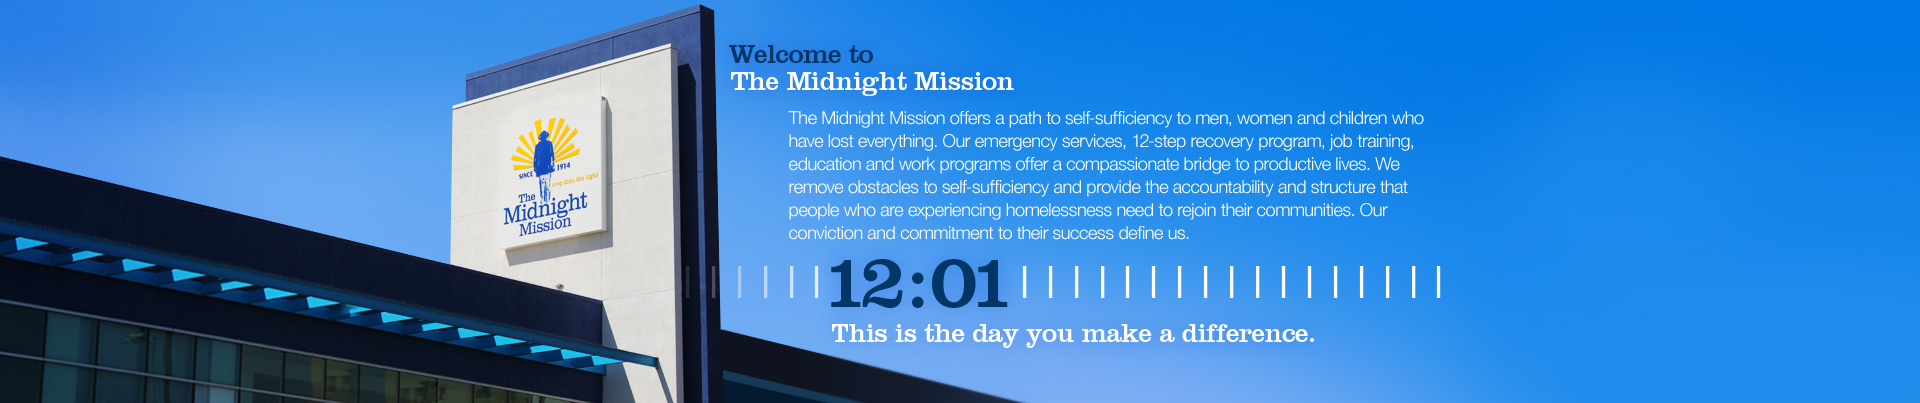
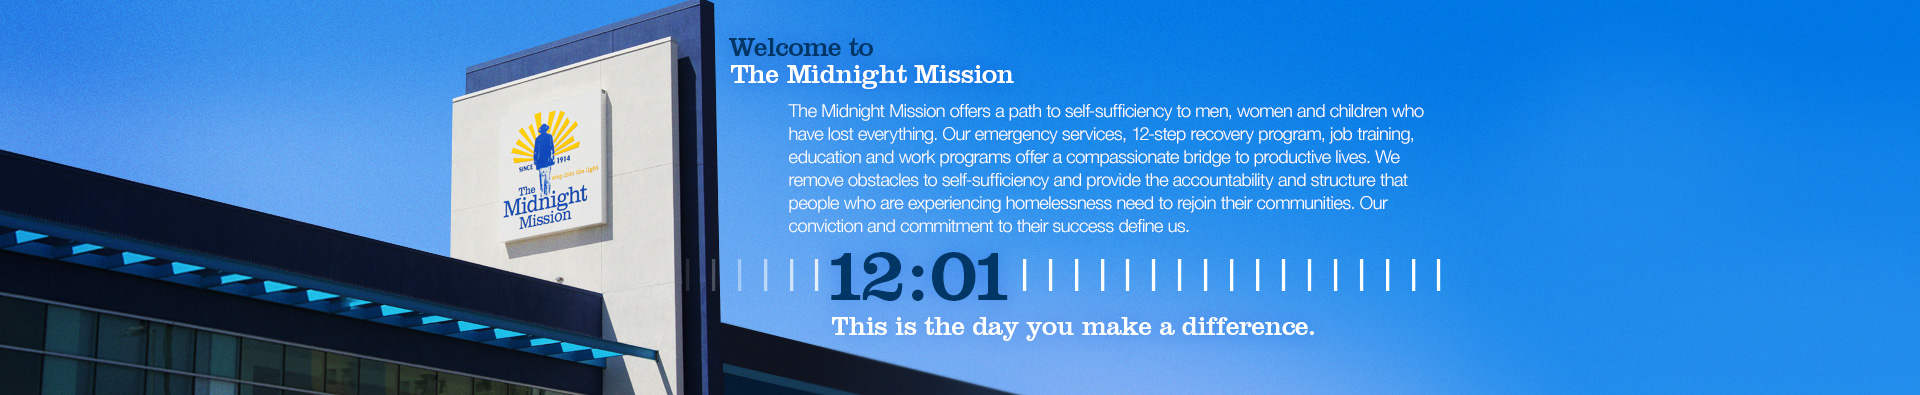
udpate

diff --git a/wp-content/themes/tmm/css/responsive.css b/wp-content/themes/tmm/css/responsive.css
@@ -128,6 +128,7 @@ header {
 	background: -o-linear-gradient( #2f2f2f, #000000 );
 	background: -ms-linear-gradient( #2f2f2f, #000000 );
 	background: linear-gradient( #2f2f2f, #000000 );
+	filter: progid:DXImageTransform.Microsoft.gradient( startColorstr='#2f2f2f', endColorstr='#000000',GradientType=0 );
 	min-height: 100px;
 }
 
@@ -297,9 +298,9 @@ ul.header-buttons .stories:hover, ul.header-buttons .stories.down {
 }
 
 .home-slider {
-	background: url("../images/home/background-slider.jpg") repeat scroll 0 0 rgba(0, 0, 0, 0) !important;
+	background: url("../images/home/background-slider.jpg") repeat scroll center center rgba(0, 0, 0, 0) !important;
 	background-size: 100% auto;
-	max-height: 403px;
+	max-height: 395px;
 }
 
 .home-container {
@@ -381,7 +382,9 @@ article > div {
     height: 160px;
 }
 article > div.double {
-    background: none repeat scroll 0 0 rgba(0, 0, 0, 0);
+    background: none repeat scroll 0 0 rgba(0, 0, 0, 0);    
+    border-radius: 0;
+    box-shadow: none;
     margin-right: 2%;
     width: 49%;
 }
@@ -392,7 +395,7 @@ article > div.double-after {
 article > div:nth-child(4n+4) {
     margin-right: 0;
 }
-article > div:hover {
+article > div:not(.double):hover {
     background-color: #B4D0FA;
 }
 
@@ -551,70 +554,95 @@ footer {
 	}
 }
 
-#tabs {
+.tabs {
 	background: none repeat scroll 0 0 rgba(0, 0, 0, 0);
     border: medium none;
     margin: 0;
     padding: 0;
 }
 
-.ui-widget-header {
-    background: none repeat scroll 0 0 rgba(0, 0, 0, 0);
-    border: medium none;
-}
-.ui-tabs .ui-tabs-nav {
-	padding: 0;
-}
-.ui-tabs .ui-tabs-nav li {
-	margin: 0;	
+.tabs ul {
+	display: list-item;
+    margin: 0;
+    padding: 0;
+    text-align: left;
 }
 
-.ui-tabs .ui-tabs-nav .ui-tabs-anchor {
-	border: medium none;
-	padding: 0;
+.tabs ul.title {
+	height: 20%;
+    position: absolute;
+    z-index: 2;
 }
 
+.tabs ul.title li {
+	background-color: #FFFFFF;
+    border: 1px solid #DDDDDD;
+    border-top-left-radius: 7px;
+    border-top-right-radius: 7px;
+    display: inline-block;
+    margin-right: -5px;
+}
 
+.tabs ul.title li.active {
+	border-bottom: none;
+}
 
-li.ui-state-default .tab-tweets {
+li .tab-tweets {
 	background: url("../images/home/feeds.png") no-repeat scroll 0 0 rgba(0, 0, 0, 0);
 	cursor: pointer;
     display: block;
     height: 14px;
-    margin: 6px;
+    margin: 9px;
     width: 68px;
 }
-li.ui-state-default .tab-tweets:hover, li.ui-tabs-active .tab-tweets {
+li.active .tab-tweets, .tab-tweets:hover {
 	background-position: 0 -14px;
 }
 
 
-li.ui-state-default .tab-facebook {
+li .tab-facebook {
 	background: url("../images/home/feeds.png") no-repeat scroll -68px 0 rgba(0, 0, 0, 0);
     cursor: pointer;
     display: block;
     height: 14px;
-    margin: 6px;
+    margin: 9px;
     width: 80px;
 }
-li.ui-state-default .tab-facebook:hover, li.ui-tabs-active .tab-facebook {
+li.active .tab-facebook, .tab-facebook:hover {
 	background-position: -68px -14px;
 }
 
 
-li.ui-state-default .tab-tumblr {
+li .tab-tumblr {
 	background: url("../images/home/feeds.png") no-repeat scroll -148px 0 rgba(0, 0, 0, 0);
    	cursor: pointer;
     display: block;
     height: 14px;
-    margin: 6px;
+    margin: 9px;
     width: 58px;
 }
-li.ui-state-default .tab-tumblr:hover, li.ui-tabs-active .tab-tumblr {
+li.active .tab-tumblr, .tab-tumblr:hover {
 	background-position: -148px -14px;
 }
 
 
-.ui-tabs .ui-tabs-panel {
-	background: #FFFFFF;
+.tabs ul.content {
+	background: none repeat scroll 0 0 #FFFFFF;
+    border: 1px solid #DDDDDD;
+    border-bottom-left-radius: 7px;
+    border-bottom-right-radius: 7px;
+    bottom: 0;
+    color: #003666;
+    height: 78%;
+    left: 0;
+    position: absolute;
+    right: 0;
+}
+
+.tabs ul.content li {
+	display: block;
+    height: 76%;
+    margin: 2% 3%;
+    overflow: auto;
+    width: 94%;
 }

diff --git a/wp-content/themes/tmm/js/main.js b/wp-content/themes/tmm/js/main.js
@@ -10,10 +10,6 @@ function onYouTubeIframeAPIReady() {
 	});
 }
 
-$(function() {
-	$( "#tabs" ).tabs();
-});
-
 $(window).load(function() {
 	$('.flexslider').flexslider({
 		animation : "fade"
@@ -30,5 +26,34 @@ $(document).ready(function(e) {
 			"display" : "none"
 		});
 	});
-
+	
+	$(".tab-tweets").click(function(event) {
+		$("ul.title li").removeClass("active");
+		$(".tab-tweets").parent().addClass("active");
+		
+		$("ul.content li:not(#tabs-1)").stop(true,false).animate({"opacity":"0"},function(){
+			$("ul.content li:not(#tabs-1)").css({"display": "none"});
+			$("#tabs-1").css({"opacity":"0", "display":"block"}).stop(true,false).animate({opacity:1});
+		});
+	});
+	$(".tab-facebook").click(function(event) {
+		$("ul.title li").removeClass("active");
+		$(".tab-facebook").parent().addClass("active");
+		
+		$("ul.content li:not(#tabs-2)").stop(true,false).animate({"opacity":"0"},function(){
+			$("ul.content li:not(#tabs-2)").css({"display": "none"});
+			$("#tabs-2").css({"opacity":"0", "display":"block"}).stop(true,false).animate({opacity:1});
+		});
+		
+	});
+	$(".tab-tumblr").click(function(event) {
+		$("ul.title li").removeClass("active");
+		$(".tab-tumblr").parent().addClass("active");
+		
+		$("ul.content li:not(#tabs-3)").stop(true,false).animate({"opacity":"0"},function(){
+			$("ul.content li:not(#tabs-3)").css({"display": "none"});
+			$("#tabs-3").css({"opacity":"0", "display":"block"}).stop(true,false).animate({opacity:1});
+		});
+		
+	});
 });

diff --git a/wp-content/themes/tmm/css/flexslider.css b/wp-content/themes/tmm/css/flexslider.css
@@ -56,9 +56,10 @@ html[xmlns] .slides {display: block;}
 .flexslider {
 	background: none repeat scroll 0 0 #000000;
     margin: 0;
-    max-height: 403px;
+    max-height: 395px;
+    overflow: hidden;
     padding: 0;
-    position: relative;
+    position: relative;    
 }
 .flex-viewport { max-height: 2000px; -webkit-transition: all 1s ease; -moz-transition: all 1s ease; -o-transition: all 1s ease; transition: all 1s ease; }
 .loading .flex-viewport { max-height: 300px; }
@@ -74,8 +75,8 @@ html[xmlns] .slides {display: block;}
 .flexslider:hover .flex-next { opacity: 0.7; right: 10px; }
 .flexslider:hover .flex-next:hover, .flexslider:hover .flex-prev:hover { opacity: 1; }
 .flex-direction-nav .flex-disabled { opacity: 0!important; filter:alpha(opacity=0); cursor: default; }
-.flex-direction-nav a:before  { font-family: "flexslider-icon"; font-size: 40px; display: inline-block; content: '\f001'; }
-.flex-direction-nav a.flex-next:before  { content: '\f002'; }
+.flex-direction-nav a:before  { font-family: "flexslider-icon"; font-size: 40px; display: inline-block; content: '\f001'; color: #0096D6;}
+.flex-direction-nav a.flex-next:before  { content: '\f002'; color: #0096D6;}
 
 /* Pause/Play */
 .flex-pauseplay a { display: block; width: 20px; height: 20px; position: absolute; bottom: 5px; left: 10px; opacity: 0.8; z-index: 10; overflow: hidden; cursor: pointer; color: #000; }

diff --git a/wp-content/themes/tmm/home.php b/wp-content/themes/tmm/home.php
@@ -12,7 +12,6 @@
  -->
 <!-- <link rel="stylesheet" type="text/css"
 	href="<?= CSS ?>/magnific-popup.css" /> -->
-<link rel="stylesheet" href="//code.jquery.com/ui/1.10.4/themes/smoothness/jquery-ui.css">
 <link rel="stylesheet" type="text/css" href="<?= CSS ?>/flexslider.css"/>
 <link rel="stylesheet" type="text/css" href="<?= CSS ?>/responsive.css" />
 
@@ -26,14 +25,34 @@
 <!--<script type="text/javascript"
 	src="<?= JS ?>/jquery.magnific-popup.min.js"></script>-->	
 <script type="text/javascript" src="<?= JS ?>/jquery.flexslider-min.js"></script>
-<script type="text/javascript" src="https://www.youtube.com/iframe_api"></script>
 <script type="text/javascript" src="<?= JS ?>/main.js"></script>
+<script type="text/javascript" src="https://www.youtube.com/iframe_api"></script>
 
 <!--[if lt IE 9]> <script src="http://html5shim.googlecode.com/svn/trunk/html5.js"></script> <![endif]-->
 
 </head>
 
 <body>
+<!-- 
+	<div id="fb-root"></div>
+	<script>
+      window.fbAsyncInit = function() {
+        FB.init({
+          appId      : '1401841393413738',
+          status     : true,
+          xfbml      : true
+        });
+      };
+
+      (function(d, s, id){
+         var js, fjs = d.getElementsByTagName(s)[0];
+         if (d.getElementById(id)) {return;}
+         js = d.createElement(s); js.id = id;
+         js.src = "//connect.facebook.net/en_US/all.js";
+         fjs.parentNode.insertBefore(js, fjs);
+       }(document, 'script', 'facebook-jssdk'));
+    </script>
+	 -->
 	<div class="wrap">
 		<header>
 			<div class="header-top">
@@ -134,22 +153,23 @@
 			<div class="container">
 				<article>
 					<div class="double shadow">
-						<div id="tabs" style="display: block; width: 100%; height: 100%;">
-							<ul>
-								<li><a class="tab-tweets" href="#tabs-1"></a></li>
-								<li><a class="tab-facebook" href="#tabs-2"></a></li>
-								<li><a class="tab-tumblr" href="#tabs-3"></a></li>
+						<div class="tabs" style="display: block; width: 100%; height: 100%;">
+							<ul class="title">
+								<li class="active"><a class="tab-tweets" ></a></li>
+								<li><a class="tab-facebook"></a></li>
+								<li><a class="tab-tumblr"></a></li>
 							</ul>
-							<div id="tabs-1">
-								<p>Proin elit arcu, rutrum commodo, vehicula tempus, commodo a, risus. Curabitur nec arcu. Donec sollicitudin mi sit amet mauris. Nam elementum quam ullamcorper ante. Etiam aliquet massa et lorem. Mauris dapibus lacus auctor risus. Aenean tempor ullamcorper leo. Vivamus sed magna quis ligula eleifend adipiscing. Duis orci. Aliquam sodales tortor vitae ipsum. Aliquam nulla. Duis aliquam molestie erat. Ut et mauris vel pede varius sollicitudin. Sed ut dolor nec orci tincidunt interdum. Phasellus ipsum. Nunc tristique tempus lectus.</p>
-							</div>
-							<div id="tabs-2">
-								<p>Morbi tincidunt, dui sit amet facilisis feugiat, odio metus gravida ante, ut pharetra massa metus id nunc. Duis scelerisque molestie turpis. Sed fringilla, massa eget luctus malesuada, metus eros molestie lectus, ut tempus eros massa ut dolor. Aenean aliquet fringilla sem. Suspendisse sed ligula in ligula suscipit aliquam. Praesent in eros vestibulum mi adipiscing adipiscing. Morbi facilisis. Curabitur ornare consequat nunc. Aenean vel metus. Ut posuere viverra nulla. Aliquam erat volutpat. Pellentesque convallis. Maecenas feugiat, tellus pellentesque pretium posuere, felis lorem euismod felis, eu ornare leo nisi vel felis. Mauris consectetur tortor et purus.</p>
-							</div>
-							<div id="tabs-3">
-								<p>Mauris eleifend est et turpis. Duis id erat. Suspendisse potenti. Aliquam vulputate, pede vel vehicula accumsan, mi neque rutrum erat, eu congue orci lorem eget lorem. Vestibulum non ante. Class aptent taciti sociosqu ad litora torquent per conubia nostra, per inceptos himenaeos. Fusce sodales. Quisque eu urna vel enim commodo pellentesque. Praesent eu risus hendrerit ligula tempus pretium. Curabitur lorem enim, pretium nec, feugiat nec, luctus a, lacus.</p>
-								<p>Duis cursus. Maecenas ligula eros, blandit nec, pharetra at, semper at, magna. Nullam ac lacus. Nulla facilisi. Praesent viverra justo vitae neque. Praesent blandit adipiscing velit. Suspendisse potenti. Donec mattis, pede vel pharetra blandit, magna ligula faucibus eros, id euismod lacus dolor eget odio. Nam scelerisque. Donec non libero sed nulla mattis commodo. Ut sagittis. Donec nisi lectus, feugiat porttitor, tempor ac, tempor vitae, pede. Aenean vehicula velit eu tellus interdum rutrum. Maecenas commodo. Pellentesque nec elit. Fusce in lacus. Vivamus a libero vitae lectus hendrerit hendrerit.</p>
-							</div>
+							<ul class="content">
+								<li id="tabs-1">							
+									<p>Twitter</p>
+								</li>
+								<li id="tabs-2" style="display: none;">							
+									<p>Facebook</p>
+								</li>
+								<li id="tabs-3" style="display: none;">								
+									<p>Tumblr</p>
+								</li>
+							</ul>
 						</div>
 					</div>
 					<div class="double-after">
